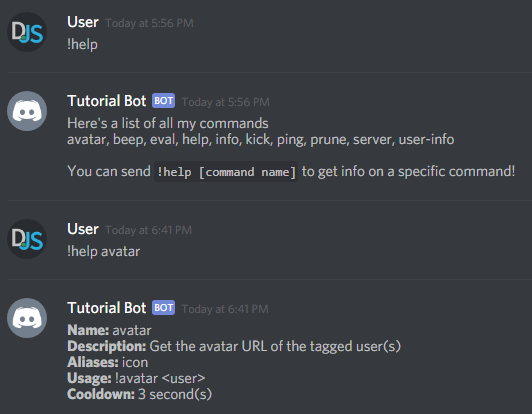
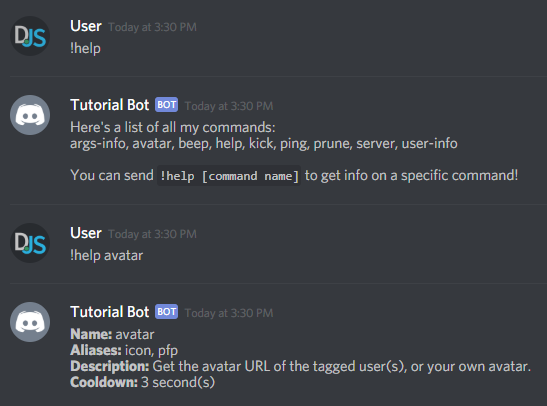
Refactor the help command + page contents

diff --git a/code-samples/command-handling/adding-features/commands/help.js b/code-samples/command-handling/adding-features/commands/help.js
@@ -7,39 +7,40 @@ module.exports = {
 	usage: '[command name]',
 	cooldown: 5,
 	execute(message, args) {
-		const { commands } = message.client;
 		const data = [];
+		const { commands } = message.client;
 
 		if (!args.length) {
 			data.push('Here\'s a list of all my commands:');
 			data.push(commands.map(command => command.name).join(', '));
 			data.push(`\nYou can send \`${prefix}help [command name]\` to get info on a specific command!`);
-		}
-		else {
-			if (!commands.has(args[0])) {
-				return message.reply('that\'s not a valid command!');
-			}
 
-			const command = commands.get(args[0]);
-
-			data.push(`**Name:** ${command.name}`);
-
-			if (command.description) data.push(`**Description:** ${command.description}`);
-			if (command.aliases) data.push(`**Aliases:** ${command.aliases.join(', ')}`);
-			if (command.usage) data.push(`**Usage:** ${prefix}${command.name} ${command.usage}`);
-
-			data.push(`**Cooldown:** ${command.cooldown || 3} second(s)`);
+			return message.author.send(data, { split: true })
+				.then(() => {
+					if (message.channel.type === 'dm') return;
+					message.reply('I\'ve sent you a DM with all my commands!');
+				})
+				.catch(error => {
+					console.error(`Could not send help DM to ${message.author.tag}.\n`, error);
+					message.reply('it seems like I can\'t DM you!');
+				});
 		}
 
-		message.author.send(data, { split: true })
-			.then(() => {
-				if (message.channel.type !== 'dm') {
-					message.channel.send('I\'ve sent you a DM with all my commands!');
-				}
-			})
-			.catch(error => {
-				console.error(`Could not send help DM to ${message.author.tag}.`, error);
-				return message.reply('it seems like I can\'t DM you!');
-			});
+		const name = args[0].toLowerCase();
+		const command = commands.get(name) || commands.find(c => c.aliases && c.aliases.includes(name));
+
+		if (!command) {
+			return message.reply('that\'s not a valid command!');
+		}
+
+		data.push(`**Name:** ${command.name}`);
+
+		if (command.aliases) data.push(`**Aliases:** ${command.aliases.join(', ')}`);
+		if (command.description) data.push(`**Description:** ${command.description}`);
+		if (command.usage) data.push(`**Usage:** ${prefix}${command.name} ${command.usage}`);
+
+		data.push(`**Cooldown:** ${command.cooldown || 3} second(s)`);
+
+		message.channel.send(data, { split: true });
 	},
 };

diff --git a/guide/command-handling/adding-features.md b/guide/command-handling/adding-features.md
@@ -276,71 +276,66 @@ const { prefix } = require('../config.json');
 Inside the `execute()` function, set up some variables and an if/else statement to determine whether it should display a list of all the command names or only information about a specific command.
 
 ```js
-const { commands } = message.client;
 const data = [];
+const { commands } = message.client;
 
 if (!args.length) {
 	// ...
 }
-else {
-	// ...
-}
+
+// ...
 ```
 
 You can use `.push()` on the `data` variable to append the info you want and then DM it to the message author once you're done.
 
-Inside the if statement, this is all you'll need:
+Inside the if statement, this is what you'll need:
 
 ```js
 data.push('Here\'s a list of all my commands:');
 data.push(commands.map(command => command.name).join(', '));
 data.push(`\nYou can send \`${prefix}help [command name]\` to get info on a specific command!`);
+
+return message.author.send(data, { split: true })
+	.then(() => {
+		if (message.channel.type === 'dm') return;
+		message.reply('I\'ve sent you a DM with all my commands!');
+	})
+	.catch(error => {
+		console.error(`Could not send help DM to ${message.author.tag}.\n`, error);
+		message.reply('it seems like I can\'t DM you! Do you have DMs disabled?');
+	});
 ```
 
 There's nothing really complex here; all you do is append some strings, `.map()` over the `commands` Collection, and add an additional string to let the user know how to trigger information about a specific command.
 
-There's a bit more code in the `else` block, but nothing complicated.
+Since help messages can get messy, you'll be DMing it to the message author instead of posting it in the requested channel. However, there is something very important you should consider: the possibility of not being able to DM the user, whether it be that they have DMs disabled on that server or overall, or they have the bot blocked. For that reason, you should `.catch()` it and let them know.
+
+<p class="tip">If you weren't already aware, `.send()` takes 2 parameters: the content to send, and the message options to pass in. You can read about the `MessageOptions` type [here](https://discord.js.org/#/docs/main/stable/typedef/MessageOptions). Using `split: true` here will automatically split our help message into 2 or more messages in the case that it exceeds the 2,000 character limit.</p>
+
+<p class="tip">Because the `data` variable is an array, you can take advantage of discord.js' functionality where it will `.join()` any array sent with a `\n` character. If you prefer to not rely on that in the chance that it changes in the future, you can simply append `.join('\n')` to the end of that yourself.</p>
+
+Below the `if (!args.length)` statement is where you'll send the help message for the command they specified.
 
 ```js
-if (!commands.has(args[0])) {
+const name = args[0].toLowerCase();
+const command = commands.get(name) || commands.find(c => c.aliases && c.aliases.includes(name));
+
+if (!command) {
 	return message.reply('that\'s not a valid command!');
 }
 
-const command = commands.get(args[0]);
-
 data.push(`**Name:** ${command.name}`);
 
-if (command.description) data.push(`**Description:** ${command.description}`);
 if (command.aliases) data.push(`**Aliases:** ${command.aliases.join(', ')}`);
+if (command.description) data.push(`**Description:** ${command.description}`);
 if (command.usage) data.push(`**Usage:** ${prefix}${command.name} ${command.usage}`);
 
 data.push(`**Cooldown:** ${command.cooldown || 3} second(s)`);
+
+message.channel.send(data, { split: true });
 ```
 
-First you check to see if that command name even exists inside our Collection. If it does, you `.get()` it and then start `.push()`ing what you need into the `data` variable. Not all commands will have descriptions, aliases, or usage strings, so you use an if statement for each of those to append them conditionally.
-
-Last but not least, you need to send the message back to the user. Since help messages can get messy, you'll be DMing it to the message author instead of posting it in the requested channel. However, there is something very important you should consider: the possibility of not being able to DM the user, whether it be that they have DMs disabled on that server or overall, or they have the bot blocked.
-
-For that, you'll be using the `.catch()` method at the end of it all.
-
-```js
-message.author.send(data, { split: true })
-	.then(() => {
-		if (message.channel.type !== 'dm') {
-			message.channel.send('I\'ve sent you a DM with all my commands!');
-		}
-	})
-	.catch(error => {
-		console.error(`Could not send help DM to ${message.author.tag}.`, error);
-		return message.reply('it seems like I can\'t DM you!');
-	});
-```
-
-Because the `data` variable is an array, you can take advantage of discord.js' functionality where it will `.join()` any array sent with a `\n` character. If you prefer to not rely on that in the off chance that it changes in the future, you can simply append `.join('\n')` to the end of that yourself.
-
-If you weren't already aware, `.send()` takes 2 parameters: the content to send, and the message options to pass in. You can read about the MessageOptions type [here](https://discord.js.org/#/docs/main/stable/typedef/MessageOptions). Using `split: true` here will automatically split our help message into 2 or more messages in the case that it exceeds the 2,000 character limit.
-
-The only thing you use `.then()` here for is to let them know when you're done sending (but only if the message isn't already inside a DM, or else you'd be sending another unnecessary message).
+Once you get the command based off the name or alias they gave, you can start `.push()`ing what you need into the `data` variable. Not all commands will have descriptions, aliases, or usage strings, so you use an if statement for each of those to append them conditionally. After that, send back all the relevant information.
 
 At the end of it all, you should be getting this as a result:
 
